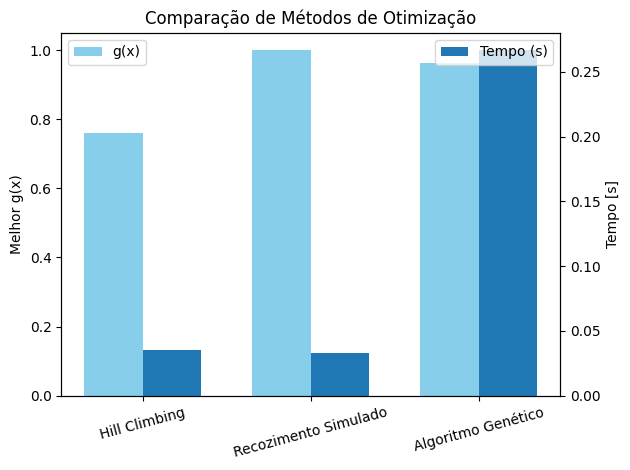
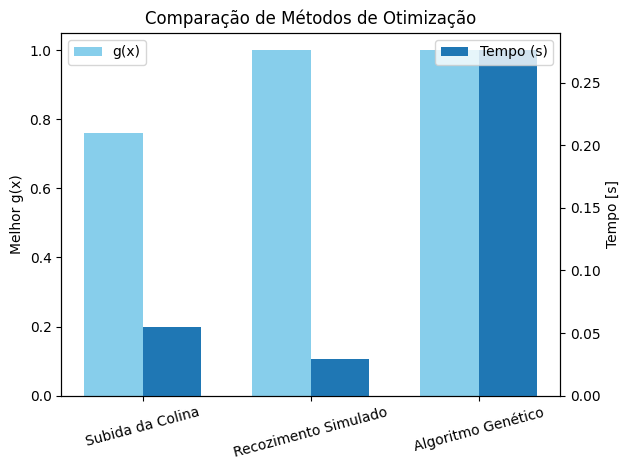
Implement code changes to enhance functionality and improve performance

diff --git a/relatorio.md b/relatorio.md
@@ -83,7 +83,7 @@ A **Figura 5** demonstra a convergência do algoritmo genético ao longo das ger
 
 2. #### Considere o alvo como desconhecido e registre os maiores valores obtidos para g(x).
 
-Na **Figura 6** podemos observar uma convergência muito rápida, nas primeiras 5-6 gerações o GA já sobe de um valor inicial (em torno de `0.998`) até aproximadamente `0.9998`. Isso demonstra que, com uma população pequena (`50`) e resolução de 10 bits, é possível encontrar rapidamente regiões de alto fitnes.
+Na **Figura 6** podemos observar uma convergência muito rápida, nas primeiras 5-6 gerações o Algoritmo Genético já sobe de um valor inicial (em torno de `0.998`) até aproximadamente `0.9998`. Isso demonstra que, com uma população pequena (`50`) e resolução de 10 bits, é possível encontrar rapidamente regiões de alto fitnes.
 
 <figure>
   <img src="graficos/exercicio-2-imagem-3.png" alt="Registro dos maiores valores de g(x)" />
@@ -92,12 +92,25 @@ Na **Figura 6** podemos observar uma convergência muito rápida, nas primeiras 
 
 3. #### Compare os resultados com os obtidos anteriormente utilizando os algoritmos de Subida da Colina e Recozimento Simulado, levando em conta tanto os valores de g(x) quanto os tempos de execução.
 
+Pela Figura 7 pode-se observar que o Algoritmo Genético e recozimento simulado chegam muito perto de $g(x)=1$, ou seja, encontraram o pico global da função. Subida da colina por outro lado, não consegue encontrar o pico global.
+
+Em questão de custo computacional, a Figura 7 ainda demonstra que o Algoritmo Genético, embora igualmente preciso ao recozimento, é muito mais pesado em termos de tempo de execução. O recozimento simulado, por outro lado, é rápido e preciso. Para esse problema, o recozimento simulado é a melhor opção.
+
 <figure>
   <img src="graficos/exercicio-2-imagem-4.png" alt="Comparação dos Métodos de Otimização" />
   <figcaption>Figura 7: Comparação dos Métodos de Otimização</figcaption>
 </figure>
 
 4. #### Explore diferentes esquemas de seleção (por exemplo, roleta, torneio e amostragem universal estocástica).
+
+A **Figura 8** mostra a comparação entre os métodos de seleção: roleta (Roulette), torneio (tournament) e amostragem universal estocástica (SUS). O método de torneio se destacou, apresentando uma convergência mais rápida e consistente em comparação com os outros métodos.
+
+O método de Roulette e SUS apresentou uma *"desconvergência"* em algumas execuções, o que pode ser atribuído à suas naturezas estocástica, onde indivíduos com fitness mais baixo podem ser selecionados.
+
+<figure>
+  <img src="graficos/exercicio-2-imagem-5.png" alt="Comparação dos Métodos de Seleção" />
+  <figcaption>Figura 8: Comparação dos Métodos de Seleção</figcaption>
+</figure>
 
 ## Problema 3 - Minimização de Função (Rosenbrock)
 
